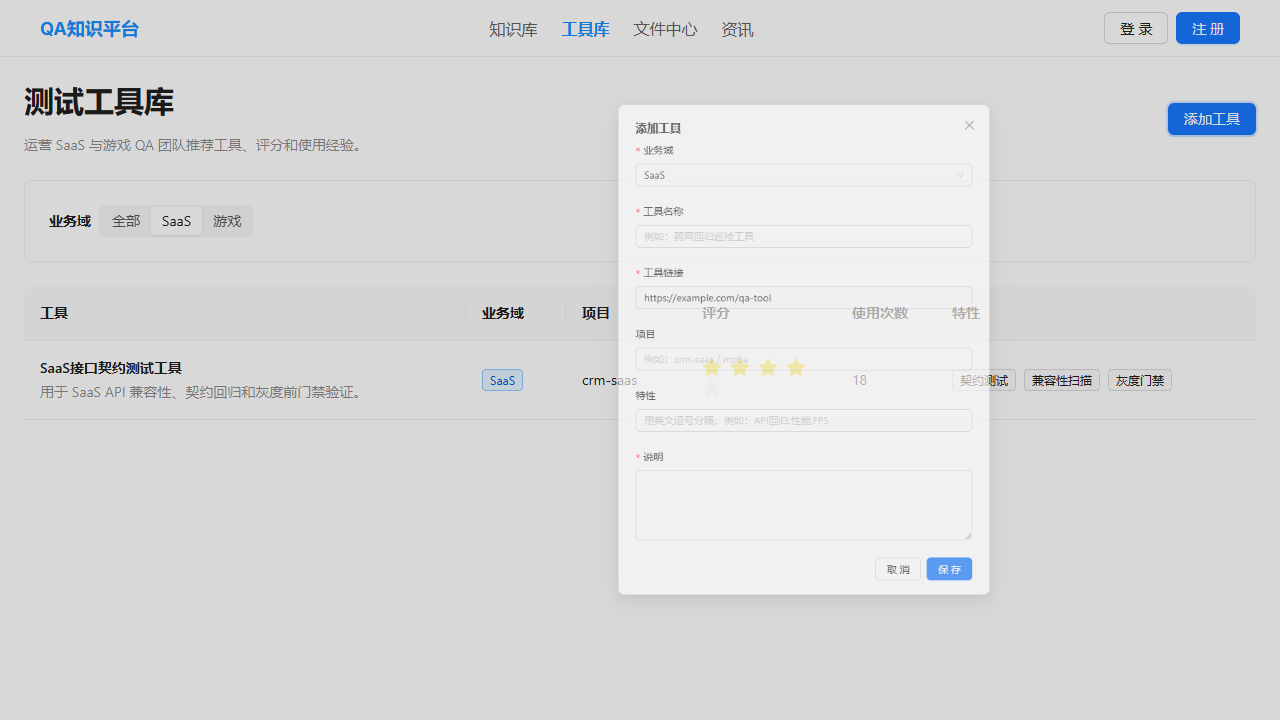
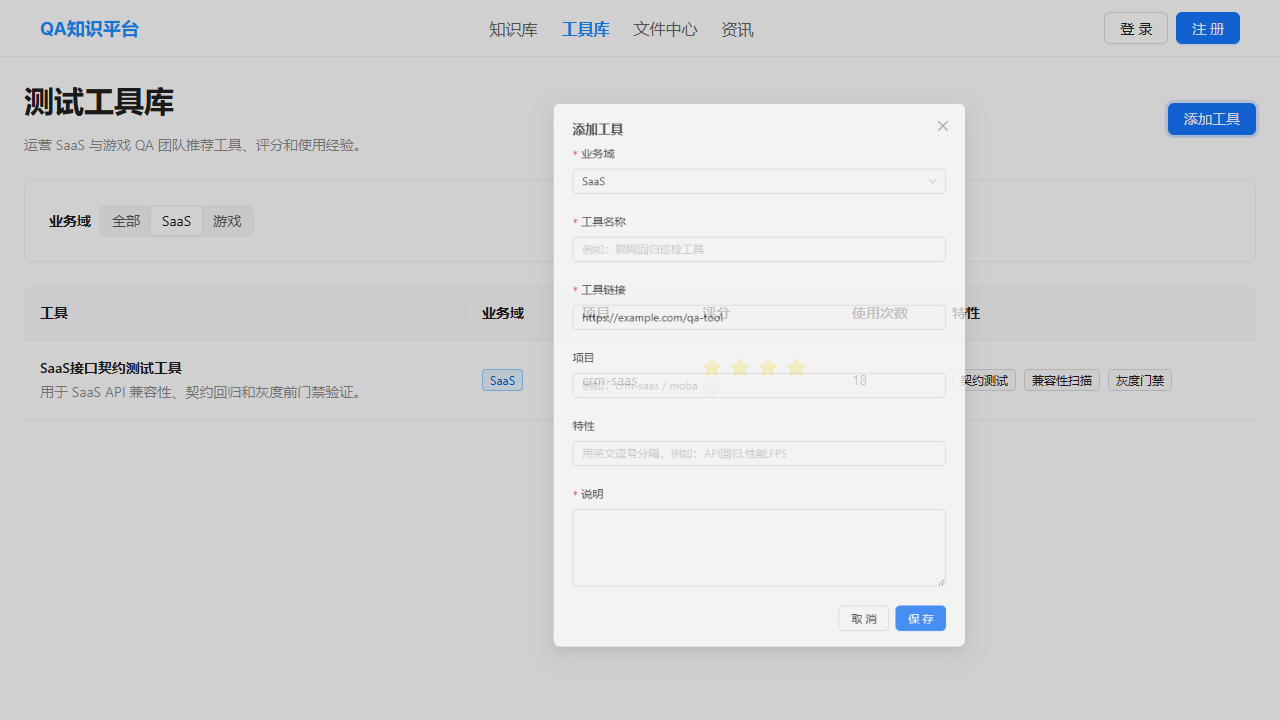
fix(acceptance): harden backend and ui gates

Changed region(s): [[0.4062, 0.1222, 0.7812, 0.9167], [0.5938, 0.5806, 0.625, 0.6111]]

diff --git a/qa-knowledge-platform/scripts/verify-project-manager-scripts.js b/qa-knowledge-platform/scripts/verify-project-manager-scripts.js
@@ -1,0 +1,34 @@
+const fs = require('fs');
+const path = require('path');
+
+const root = path.resolve(__dirname, '..');
+
+const checks = [
+  {
+    file: 'scripts/project-manager.ps1',
+    markers: [
+      'function Restore-FrontendDevServer',
+      'Restore-FrontendDevServer',
+      '运行SaaS/Game UI验收',
+    ],
+  },
+  {
+    file: 'scripts/project-manager.sh',
+    markers: [
+      'restore_frontend_dev_server()',
+      'restore_frontend_dev_server',
+      '运行SaaS/Game UI验收',
+    ],
+  },
+];
+
+for (const check of checks) {
+  const content = fs.readFileSync(path.join(root, check.file), 'utf8');
+  for (const marker of check.markers) {
+    if (!content.includes(marker)) {
+      throw new Error(`${check.file} missing marker: ${marker}`);
+    }
+  }
+}
+
+console.log('Project manager scripts restore frontend before UI acceptance.');

diff --git a/qa-knowledge-platform/scripts/verify-acceptance-docs.js b/qa-knowledge-platform/scripts/verify-acceptance-docs.js
@@ -21,6 +21,7 @@ const requiredMarkers = [
   'npx --yes --package playwright node scripts/verify-ui-acceptance.js',
   'Runtime Docker acceptance',
   'UI acceptance',
+  'Project manager script resilience',
   'knowledge write flow',
   'create with evidence file',
   'comment, like, favorite, metrics',
@@ -28,6 +29,7 @@ const requiredMarkers = [
   'single Alembic release head',
   'fresh empty database upgrade',
   'zero ESLint warnings',
+  'warning-free',
   'intelligence flow',
   'source-backed news summary',
   'output/acceptance/ui-knowledge.png',

diff --git a/qa-knowledge-platform/backend/tests/test_pydantic_config.py b/qa-knowledge-platform/backend/tests/test_pydantic_config.py
@@ -1,0 +1,30 @@
+from pathlib import Path
+import subprocess
+import sys
+
+
+def test_app_models_do_not_use_pydantic_v1_class_config():
+    app_root = Path(__file__).resolve().parents[1] / "app"
+    offenders = []
+
+    for path in app_root.rglob("*.py"):
+        if "class Config" in path.read_text(encoding="utf-8"):
+            offenders.append(str(path.relative_to(app_root.parent)))
+
+    assert offenders == []
+
+
+def test_security_module_imports_without_deprecation_warnings():
+    result = subprocess.run(
+        [
+            sys.executable,
+            "-W",
+            "error::DeprecationWarning",
+            "-c",
+            "import app.core.security",
+        ],
+        capture_output=True,
+        text=True,
+    )
+
+    assert result.returncode == 0, result.stderr

diff --git a/qa-knowledge-platform/backend/app/modules/users/schemas.py b/qa-knowledge-platform/backend/app/modules/users/schemas.py
@@ -1,5 +1,5 @@
 from typing import Optional, List
-from pydantic import BaseModel, EmailStr, Field
+from pydantic import BaseModel, ConfigDict, EmailStr, Field
 from datetime import datetime
 from uuid import UUID
 
@@ -83,6 +83,8 @@ class TeamUpdate(BaseModel):
 
 class TeamMemberInfo(BaseModel):
     """团队成员信息"""
+    model_config = ConfigDict(from_attributes=True)
+
     id: UUID
     username: str
     nickname: Optional[str]
@@ -92,12 +94,10 @@ class TeamMemberInfo(BaseModel):
     joined_at: datetime
     is_leader: bool = False
 
-    class Config:
-        from_attributes = True
-
-
 class TeamResponse(TeamBase):
     """团队信息响应"""
+    model_config = ConfigDict(from_attributes=True)
+
     id: UUID
     leader_id: Optional[UUID]
     settings: Optional[dict]
@@ -106,10 +106,6 @@ class TeamResponse(TeamBase):
     member_count: int = 0
     leader: Optional["UserResponse"] = None
     members: List[TeamMemberInfo] = []
-
-    class Config:
-        from_attributes = True
-
 
 class TeamInvitation(BaseModel):
     """团队邀请"""
@@ -134,6 +130,8 @@ class TeamStats(BaseModel):
 
 class UserResponse(UserBase):
     """用户信息响应"""
+    model_config = ConfigDict(from_attributes=True)
+
     id: UUID
     role: UserRole
     professional_role: Optional[ProfessionalRole]
@@ -146,10 +144,6 @@ class UserResponse(UserBase):
     last_login: Optional[datetime]
     created_at: datetime
     updated_at: Optional[datetime]
-
-    class Config:
-        from_attributes = True
-
 
 class TokenResponse(BaseModel):
     """令牌响应"""

diff --git a/qa-knowledge-platform/backend/app/modules/tools/schemas.py b/qa-knowledge-platform/backend/app/modules/tools/schemas.py
@@ -2,21 +2,20 @@ from decimal import Decimal
 from typing import Any, Dict, List, Optional
 from uuid import UUID
 
-from pydantic import BaseModel, Field
+from pydantic import BaseModel, ConfigDict, Field
 
 from app.modules.tools.models import BusinessDomain, ToolCategoryType
 
 
 class ToolCategoryResponse(BaseModel):
+    model_config = ConfigDict(from_attributes=True)
+
     id: UUID
     name: str
     description: Optional[str] = None
     type: ToolCategoryType
     business_domain: BusinessDomain
     sort_order: int = 0
-
-    class Config:
-        from_attributes = True
 
 
 class ToolBase(BaseModel):
@@ -45,14 +44,13 @@ class ToolUpdate(BaseModel):
 
 
 class ToolResponse(ToolBase):
+    model_config = ConfigDict(from_attributes=True)
+
     id: UUID
     avg_rating: Decimal = Decimal("0")
     rating_count: int = 0
     usage_count: int = 0
     is_recommended: bool = False
-
-    class Config:
-        from_attributes = True
 
 
 class ToolRatingCreate(BaseModel):
@@ -63,12 +61,11 @@ class ToolRatingCreate(BaseModel):
 
 
 class ToolRatingResponse(BaseModel):
+    model_config = ConfigDict(from_attributes=True)
+
     id: UUID
     tool_id: UUID
     user_id: UUID
     rating: int
     review: Optional[str] = None
     pros_cons: Dict[str, Any] = Field(default_factory=dict)
-
-    class Config:
-        from_attributes = True

diff --git a/qa-knowledge-platform/backend/app/core/security.py b/qa-knowledge-platform/backend/app/core/security.py
@@ -1,10 +1,8 @@
 from datetime import datetime, timedelta
 from typing import Any, Union
+import bcrypt
 from jose import jwt
-from passlib.context import CryptContext
 from app.core.config import settings
-
-pwd_context = CryptContext(schemes=["bcrypt"], deprecated="auto")
 
 
 def create_access_token(
@@ -24,12 +22,18 @@ def create_access_token(
 
 def verify_password(plain_password: str, hashed_password: str) -> bool:
     """验证密码"""
-    return pwd_context.verify(plain_password, hashed_password)
+    try:
+        return bcrypt.checkpw(
+            plain_password.encode("utf-8"),
+            hashed_password.encode("utf-8"),
+        )
+    except ValueError:
+        return False
 
 
 def get_password_hash(password: str) -> str:
     """获取密码哈希"""
-    return pwd_context.hash(password)
+    return bcrypt.hashpw(password.encode("utf-8"), bcrypt.gensalt()).decode("utf-8")
 
 
 def verify_token(token: str) -> Union[str, None]:

diff --git a/qa-knowledge-platform/backend/app/modules/knowledge/schemas.py b/qa-knowledge-platform/backend/app/modules/knowledge/schemas.py
@@ -1,7 +1,7 @@
 from typing import List, Optional
 from uuid import UUID
 
-from pydantic import BaseModel, Field
+from pydantic import BaseModel, ConfigDict, Field
 
 from app.modules.knowledge.models import (
     ArticleType,
@@ -13,15 +13,14 @@ from app.modules.knowledge.models import (
 
 
 class CategoryResponse(BaseModel):
+    model_config = ConfigDict(from_attributes=True)
+
     id: UUID
     name: str
     description: Optional[str] = None
     type: CategoryType
     business_domain: BusinessDomain
     sort_order: int = 0
-
-    class Config:
-        from_attributes = True
 
 
 class ArticleBase(BaseModel):
@@ -56,11 +55,10 @@ class ArticleUpdate(BaseModel):
 
 
 class ArticleResponse(ArticleBase):
+    model_config = ConfigDict(from_attributes=True)
+
     id: UUID
     review_status: ReviewStatus
-
-    class Config:
-        from_attributes = True
 
 
 class CommentCreate(BaseModel):

diff --git a/qa-knowledge-platform/backend/app/modules/news/schemas.py b/qa-knowledge-platform/backend/app/modules/news/schemas.py
@@ -2,7 +2,7 @@ from decimal import Decimal
 from typing import List, Optional
 from uuid import UUID
 
-from pydantic import BaseModel, Field
+from pydantic import BaseModel, ConfigDict, Field
 
 from app.modules.news.models import BusinessDomain, NewsCategory, ReviewStatus
 
@@ -33,14 +33,15 @@ class NewsSourceUpdate(BaseModel):
 
 
 class NewsSourceResponse(NewsSourceBase):
+    model_config = ConfigDict(from_attributes=True)
+
     id: UUID
     selector: Optional[str] = None
 
-    class Config:
-        from_attributes = True
-
 
 class NewsItemResponse(BaseModel):
+    model_config = ConfigDict(from_attributes=True)
+
     id: UUID
     source_id: UUID
     title: str
@@ -50,6 +51,3 @@ class NewsItemResponse(BaseModel):
     tags: List[str] = Field(default_factory=list)
     relevance_score: Decimal = Decimal("0")
     review_status: ReviewStatus
-
-    class Config:
-        from_attributes = True

diff --git a/qa-knowledge-platform/backend/app/core/config.py b/qa-knowledge-platform/backend/app/core/config.py
@@ -1,8 +1,11 @@
-from pydantic_settings import BaseSettings
 from typing import List
+
+from pydantic_settings import BaseSettings, SettingsConfigDict
 
 
 class Settings(BaseSettings):
+    model_config = SettingsConfigDict(env_file=".env", case_sensitive=True)
+
     # 应用配置
     APP_NAME: str = "QA测试知识协作平台"
     DEBUG: bool = False
@@ -62,10 +65,6 @@ class Settings(BaseSettings):
     # Celery配置
     CELERY_BROKER_URL: str = "redis://localhost:6379/1"
     CELERY_RESULT_BACKEND: str = "redis://localhost:6379/2"
-    
-    class Config:
-        env_file = ".env"
-        case_sensitive = True
 
 
 settings = Settings()

diff --git a/qa-knowledge-platform/backend/app/modules/files/schemas.py b/qa-knowledge-platform/backend/app/modules/files/schemas.py
@@ -1,10 +1,12 @@
-from pydantic import BaseModel
+from pydantic import BaseModel, ConfigDict
 from typing import Optional
 from datetime import datetime
 
 
 class FileInfo(BaseModel):
     """文件信息模型"""
+    model_config = ConfigDict(from_attributes=True)
+
     id: str
     filename: str
     original_filename: str
@@ -15,9 +17,6 @@ class FileInfo(BaseModel):
     thumbnail_url: Optional[str] = None
     upload_time: datetime
     
-    class Config:
-        from_attributes = True
-
 
 class FileUploadResponse(BaseModel):
     """文件上传响应模型"""

diff --git a/qa-knowledge-platform/docs/plans/acceptance-matrix-saas-game-qa.md b/qa-knowledge-platform/docs/plans/acceptance-matrix-saas-game-qa.md
@@ -9,19 +9,20 @@ This matrix defines the release evidence for the SaaS and game QA baseline. It m
 | P0 | Tool operations support domain filtering, rating, favorite, and usage tracking. | `GET /api/v1/tools`, `POST /api/v1/tools`, `POST /api/v1/tools/{id}/rating`, `POST /api/v1/tools/{id}/favorite`, `POST /api/v1/tools/{id}/usage`. | API contract, automation, FPS, and weak-network tools visible on `/tools`. | `python -m pytest tests/test_tools_api.py -q` | Backend + QA | Passed |
 | P1 | QA intelligence news supports source governance and publish/reject review. | `GET /api/v1/news/items`, `POST /api/v1/news/items/{id}/publish`, `POST /api/v1/news/items/{id}/reject`, `/api/v1/news/sources`. | DORA, AI testing, and game testing intelligence visible on `/news`. | `python -m pytest tests/test_news_api.py -q` | Content ops | Passed |
 | P1 | Frontend pages are operational workspaces, not "under development" placeholders. | Typed clients in `frontend/src/lib/api/*`. | Tables, filters, metrics, status tags, and create actions on `/knowledge`, `/tools`, `/news`. | `node scripts/verify-core-pages.js`, `pnpm type-check`, `pnpm lint`, `pnpm build` | Frontend + QA | Passed |
-| P2 | Collaboration and governance support files, comments, likes, favorites, notifications, auth, profile, audit logs, and real metrics. | File upload, `POST /api/v1/knowledge/articles/{id}/comments`, `POST /api/v1/knowledge/articles/{id}/like`, `POST /api/v1/knowledge/articles/{id}/favorite`, `GET /api/v1/knowledge/metrics`, `GET /api/v1/users/stats`, `GET /api/v1/teams/{id}/stats`, `GET /api/v1/audit/logs`, notification admin, auth/profile routes. | `/files`, `/admin/notifications`, `/profile`, `/login` build successfully; runtime gate verifies comment, like, favorite, metrics, and audit flow. | `python -m pytest tests/test_users.py tests/test_audit_api.py -q`, `node scripts/verify-runtime-acceptance.js`, `pnpm build` | Full stack | Passed with warnings |
+| P2 | Collaboration and governance support files, comments, likes, favorites, notifications, auth, profile, audit logs, and real metrics. | File upload, `POST /api/v1/knowledge/articles/{id}/comments`, `POST /api/v1/knowledge/articles/{id}/like`, `POST /api/v1/knowledge/articles/{id}/favorite`, `GET /api/v1/knowledge/metrics`, `GET /api/v1/users/stats`, `GET /api/v1/teams/{id}/stats`, `GET /api/v1/audit/logs`, notification admin, auth/profile routes. | `/files`, `/admin/notifications`, `/profile`, `/login` build successfully; runtime gate verifies comment, like, favorite, metrics, and audit flow. | `python -m pytest tests/test_users.py tests/test_audit_api.py -q`, `node scripts/verify-runtime-acceptance.js`, `pnpm build` | Full stack | Passed |
 | P3 | Intelligent QA features only use reviewed content and source links. | `GET /api/v1/intelligence/similar-articles`, `GET /api/v1/intelligence/tool-recommendations`, `GET /api/v1/intelligence/news-summary`. | Source-backed similar articles, recommended tools, and news summaries are exposed through API contracts. | `python -m pytest tests/test_intelligence_api.py -q`, `node scripts/verify-runtime-acceptance.js` | Product + QA | Passed as deterministic MVP |
 
 ## Release Evidence
 
 - Backend focused suite: `python -m pytest tests/test_taxonomy.py tests/test_knowledge_api.py tests/test_tools_api.py tests/test_news_api.py tests/test_intelligence_api.py -q` -> 17 passed.
-- Backend full regression: `python -m pytest tests/ --cov=app -q` -> 61 passed, 71% coverage.
+- Backend full regression: `python -m pytest tests/ --cov=app -q` -> 63 passed, 71% coverage, warning-free.
 - Database migration graph: `poetry run alembic heads` -> single Alembic release head `20260628_add_audit_logs`; fresh empty database upgrade with `DATABASE_URL=postgresql+asyncpg://... poetry run alembic upgrade head` -> passed.
 - Frontend static gate: `node scripts/verify-core-pages.js` -> passed.
 - Frontend quality gate: `pnpm type-check`, `pnpm lint`, `pnpm build` -> passed with zero ESLint warnings.
 - Runtime Docker acceptance: `node scripts/verify-runtime-acceptance.js` -> validates backend health, SaaS/Game seed data, file upload, knowledge write flow with linked evidence file, comment, like, favorite, metrics, audit flow, tool rating/favorite/usage flow, news source governance, source-backed intelligence flow, source-backed news summary, and frontend routes on the integrated stack.
 - UI acceptance: `npx --yes --package playwright node scripts/verify-ui-acceptance.js` -> validates `/knowledge`, `/tools`, and `/news` render live API data, filter by SaaS/Game, and open create/configuration forms in a browser.
 - UI screenshot evidence: `output/acceptance/ui-knowledge.png`, `output/acceptance/ui-tools.png`, `output/acceptance/ui-news.png`.
+- Project manager script resilience: `node scripts/verify-project-manager-scripts.js` -> verifies PowerShell and WSL test entrypoints restore the frontend dev server before UI acceptance, preventing production `.next` cleanup from corrupting browser checks.
 - Documentation gate: `node scripts/verify-acceptance-docs.js` must pass before release handoff.
 
 ## Manual Walkthrough
@@ -49,8 +50,9 @@ Use a local dev stack with backend on `8000` and frontend on `3000`.
 | Full stack startup | `.\scripts\project-manager.ps1 start -Env dev` | Passed: dev stack starts and initializes. |
 | Runtime Docker acceptance | `node scripts/verify-runtime-acceptance.js` | Passed: health, SaaS/Game APIs, file upload, knowledge create with evidence file/approve/comment/like/favorite/metrics/update/search/delete, audit flow for knowledge/news/source changes, tool create/delete/rate/favorite/usage, news source CRUD, news publish/reject, intelligence flow, and core frontend routes. |
 | UI acceptance | `npx --yes --package playwright node scripts/verify-ui-acceptance.js` | Passed: live API data rendered, SaaS/Game filters worked, and create/configuration forms opened on knowledge, tools, and news pages. |
+| Project manager script resilience | `node scripts/verify-project-manager-scripts.js` | Passed: PowerShell and WSL test entrypoints restore the frontend dev server before browser UI acceptance. |
 | Backend focused regression | `python -m pytest tests/test_taxonomy.py tests/test_knowledge_api.py tests/test_tools_api.py tests/test_news_api.py tests/test_intelligence_api.py -q` | Passed: 17 tests. |
-| Backend full regression | `python -m pytest tests/ --cov=app -q` | Passed: 61 tests, 71% coverage. |
+| Backend full regression | `python -m pytest tests/ --cov=app -q` | Passed: 63 tests, 71% coverage, warning-free. |
 | Database migration graph | `poetry run alembic heads`; run `poetry run alembic upgrade head` against a fresh empty database. | Passed: single Alembic release head `20260628_add_audit_logs`; fresh empty database upgrade passed. |
 | Frontend release build | Stop `frontend`, run `$docker compose -f docker-compose.dev.yml run --rm --no-deps -e NODE_ENV=production -e NEXT_TELEMETRY_DISABLED=1 frontend sh -lc "rm -rf .next && pnpm build"`, then start `frontend`. | Passed: 17 static routes generated without `.next` contention. |
 | Documentation gate | `node scripts/verify-acceptance-docs.js` | Passed. |